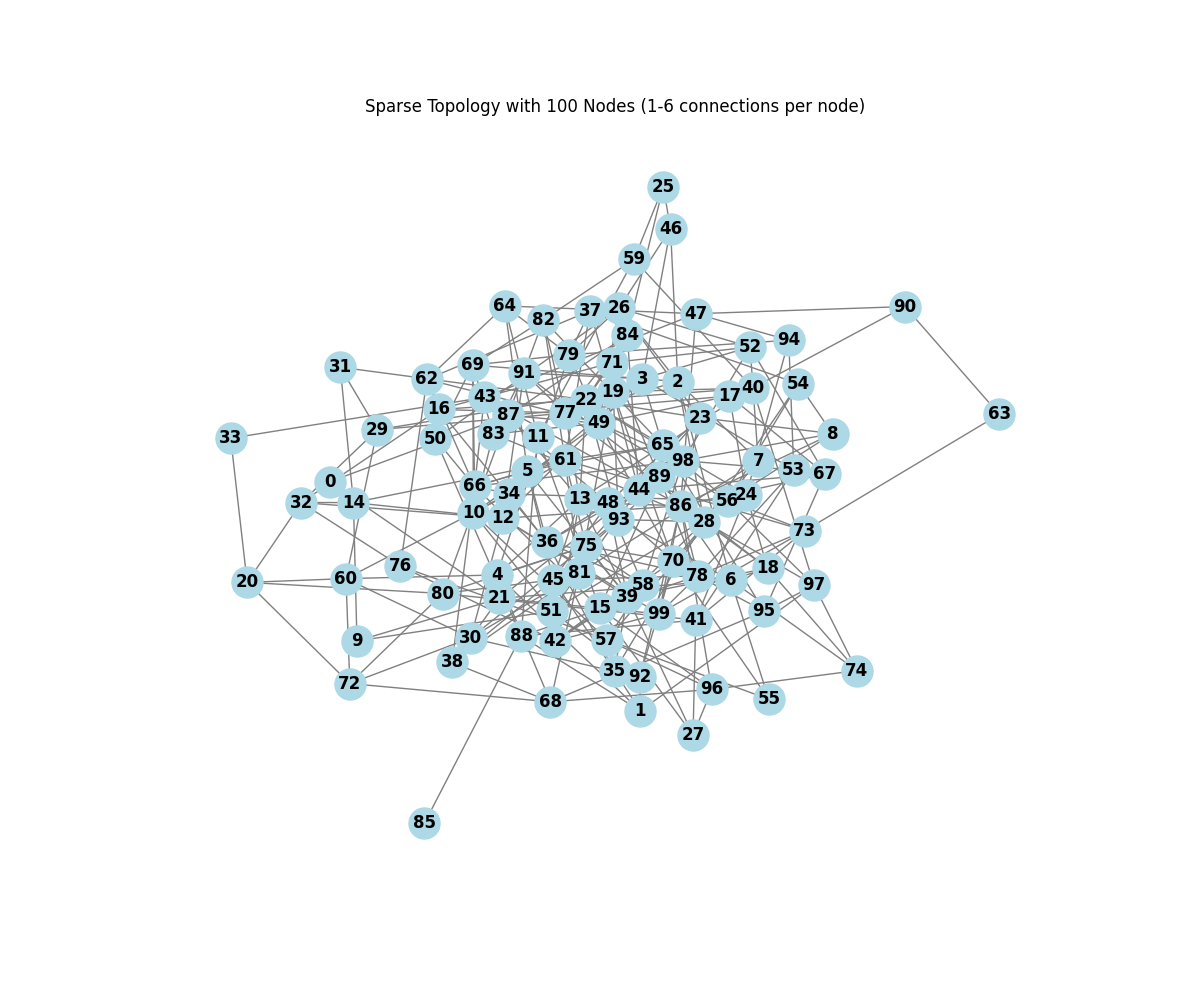
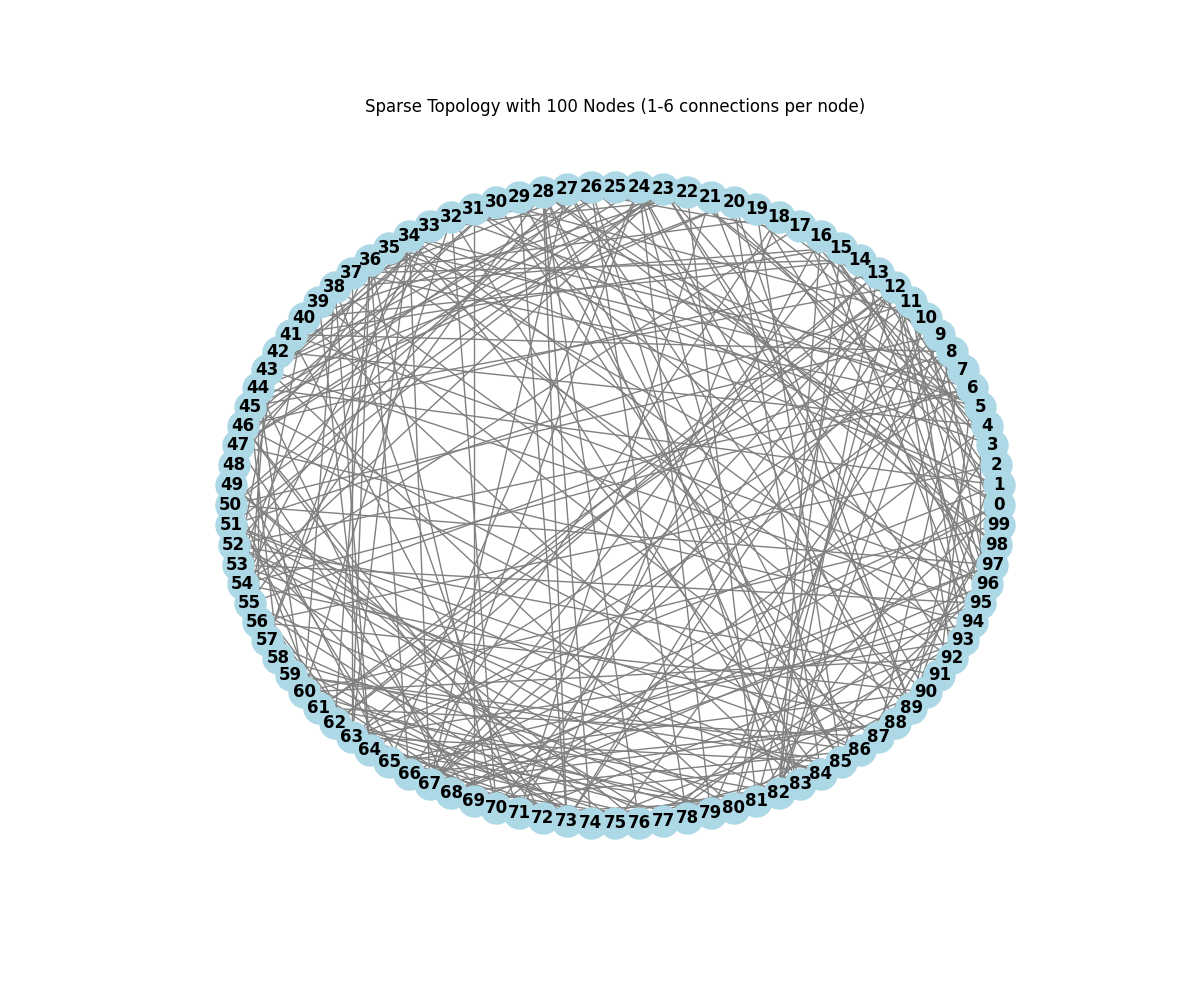
circular topology

Changed region(s): [[0.1542, 0.155, 0.8633, 0.837]]

diff --git a/src/topology_graph.py b/src/topology_graph.py
@@ -37,7 +37,7 @@ def draw_graph(G, title, file_name):
     Draws the graph using matplotlib and saves it to a file.
     """
     plt.figure(figsize=(12, 10))
-    pos = nx.spring_layout(G, seed=42) # Using a fixed seed for reproducible layouts
+    pos = nx.circular_layout(G)  # Changed to use circular layout
     plt.title(title)
     nx.draw(G, pos, node_color='lightblue', with_labels=True, node_size=500, font_weight='bold', edge_color='gray')
     plt.savefig(file_name)
